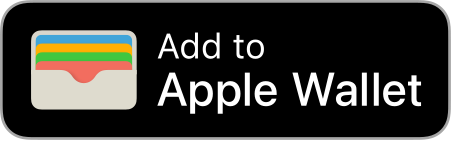
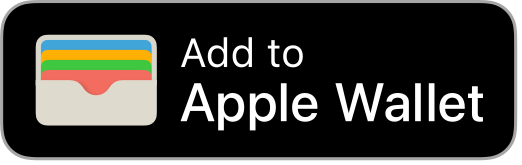
Show the Apple and Google Wallet badges at the same width
Both official badges now share one width, each at its own proportions
(no box, no stretching or cropping): 160px on the ticket page (Google 44
tall, Apple about 51), centred on each other in a row and lined up when
they stack; 174px in the ticket email (Google 174 x 48, Apple 174 x 55),
166px on a phone, in equal half-width cells. The email PNGs are
re-rendered by width. An equal box filled to match was tried and left
the narrower badge's own outline showing inside it, so the owner chose
equal widths (docs/wallet-setup.md).

Claude-Session: https://claude.ai/code/session_01EiyY8SCgCLMsFcWNDso4n4

diff --git a/tests/server/ticket-email.test.ts b/tests/server/ticket-email.test.ts
@@ -574,13 +574,13 @@ describe("wallet buttons (ticketWalletLinks; the outbox passes which wallets are
     expect(walletPassLink(SITE, "ord_abc", "google", 2)).toBe(link("google", 2));
   });
 
-  it("both are the vendors' official badges (hosted PNGs of their SVGs), never text: alt in their words, in their pass links, the same height", () => {
+  it("both are the vendors' official badges (hosted PNGs of their SVGs), never text: alt in their words, in their pass links, the same width", () => {
     const { html } = buildTicketEmail(order, event, SITE, BUILT, BOTH);
     for (const [i, card] of cardsOf(html).entries()) {
       const n = i + 1;
-      for (const [provider, words, file, width] of [
-        ["apple", "Add to Apple Wallet", "apple-wallet-badge", 152],
-        ["google", "Add to Google Wallet", "google-wallet-badge", 174],
+      for (const [provider, words, file, height] of [
+        ["apple", "Add to Apple Wallet", "apple-wallet-badge", 55],
+        ["google", "Add to Google Wallet", "google-wallet-badge", 48],
       ] as const) {
         const anchor = card.match(new RegExp(`<a class="wa" href="${pattern(link(provider, n))}"[^>]*>([\\s\\S]*?)</a>`));
         expect(anchor, `${provider} ${n}`).not.toBeNull();
@@ -590,15 +590,15 @@ describe("wallet buttons (ticketWalletLinks; the outbox passes which wallets are
         expect(inside.replace(/<[^>]+>/g, "").trim()).toBe("");
         expect(inside.match(/<img [^>]*>/g)).toEqual([
           expect.stringContaining(
-            `<img class="wb" src="${SITE}/email/ticket/${file}@2x.png" srcset="${SITE}/email/ticket/${file}@3x.png 3x" width="${width}" height="48" alt="${words}" style="display:block;border:0;width:${width}px;max-width:100%;height:auto;`,
+            `<img class="wb" src="${SITE}/email/ticket/${file}@2x.png" srcset="${SITE}/email/ticket/${file}@3x.png 3x" width="174" height="${height}" alt="${words}" style="display:block;border:0;width:174px;max-width:100%;height:auto;`,
           ),
         ]);
       }
       // No colour behind them (their corners are transparent): plain cells.
       expect(card).not.toMatch(/<td bgcolor="#000000"[^>]*><a class="wa"/);
     }
-    // On a phone both are 46px tall, at their own proportions.
-    expect(html.match(/@media only screen and \(max-width:620px\)\{([\s\S]*?)\n\}/)?.[1]).toContain(".wb{width:auto!important;height:46px!important}");
+    // On a phone both are 166px wide, at their own proportions.
+    expect(html.match(/@media only screen and \(max-width:620px\)\{([\s\S]*?)\n\}/)?.[1]).toContain(".wb{width:166px!important;height:auto!important}");
     expect(visibleText(html)).not.toMatch(/Add to (Apple|Google) Wallet/);
   });
 
@@ -615,19 +615,19 @@ describe("wallet buttons (ticketWalletLinks; the outbox passes which wallets are
     expect(google.html + google.text).not.toContain("Apple Wallet");
   });
 
-  it("the wallet PNGs are the vendors' SVGs rendered at 2x and 3x the 48px shown, at their own proportions, transparent outside", () => {
+  it("the wallet PNGs are the vendors' SVGs rendered at 2x and 3x the 174px width both are shown at, at their own proportions, transparent outside", () => {
     for (const [svg, shown, width, height] of [
       ["public/wallet/badges/US-UK_Add_to_Apple_Wallet_RGB_101421.svg", TICKET_EMAIL_WALLET_BADGES.apple, 110.739, 35.016],
       ["public/wallet/badges/enAU_add_to_google_wallet_add-wallet-badge.svg", TICKET_EMAIL_WALLET_BADGES.google, 199, 55],
     ] as const) {
       expect(readFileSync(path.join(process.cwd(), svg), "utf8")).toContain(`viewBox="0 0 ${width} ${height}"`);
-      expect(shown.height).toBe(48);
+      expect(shown.width).toBe(174);
       // Shown at the artwork's proportions, to within rounding (under half a pixel).
-      expect(Math.abs((shown.height * width) / height - shown.width)).toBeLessThan(0.5);
+      expect(Math.abs((shown.width * height) / width - shown.height)).toBeLessThan(0.5);
       for (const [file, scale] of [[shown.x2, 2], [shown.x3, 3]] as const) {
         const png = readFileSync(path.join(process.cwd(), "public", file));
-        expect(png.readUInt32BE(20), file).toBe(48 * scale);
-        expect(Math.abs(png.readUInt32BE(16) - (48 * scale * width) / height), file).toBeLessThanOrEqual(1);
+        expect(png.readUInt32BE(16), file).toBe(174 * scale);
+        expect(Math.abs(png.readUInt32BE(20) - (174 * scale * height) / width), file).toBeLessThanOrEqual(1);
         // Colour type 6: RGBA, so the corners outside the badge stay transparent.
         expect(png[25], file).toBe(6);
       }

diff --git a/scripts/render-ticket-email-assets.ts b/scripts/render-ticket-email-assets.ts
@@ -12,8 +12,9 @@
  *   public/email/ticket/wordmark.png      the uppercase wordmark, Signal Orange on transparent, 106 x 24 (212 x 48)
  *   public/email/ticket/{apple,google}-wallet-badge@2x.png / @3x.png   the vendors' official "Add to … Wallet"
  *                                         badges, rasterised unmodified from public/wallet/badges/
- *                                         (lib/wallet-badges.ts) at 2x and 3x the 48 px they're shown at
- *                                         (96 / 144 px tall), transparent outside the badge
+ *                                         (lib/wallet-badges.ts) at 2x and 3x the 174 px width both are
+ *                                         shown at (348 / 522 px wide), each at its own proportions,
+ *                                         transparent outside the badge
  *   lib/server/email-ticket-wordmark.ts   the wordmark's bytes as base64 (attached inline, cid:)
  *
  *   node --import tsx scripts/render-ticket-email-assets.ts
@@ -30,7 +31,7 @@
 import { mkdirSync, readFileSync, writeFileSync } from "node:fs";
 import path from "node:path";
 import sharp from "sharp";
-import { WALLET_BADGE_EMAIL_HEIGHT, WALLET_BADGES } from "../lib/wallet-badges";
+import { WALLET_BADGE_EMAIL_WIDTH, WALLET_BADGES } from "../lib/wallet-badges";
 
 const root = process.cwd();
 const OUT = path.join(root, "public/email/ticket");
@@ -92,15 +93,16 @@ async function main() {
   files.push(["wordmark.png", wordmarkPng]);
 
   // The vendors' official wallet badges, rasterised exactly as drawn (no recolouring, cropping or redrawing):
-  // each SVG rendered straight at the density that makes it 96 / 144 px tall (2x / 3x the 48 px shown), at
-  // its own proportions, its transparent corners kept, for email clients that can't show SVG.
+  // each SVG rendered straight at the density that makes it 348 / 522 px wide (2x / 3x the 174 px both are
+  // shown at), at its own proportions (so Apple's comes out taller), its transparent corners kept, for email
+  // clients that can't show SVG.
   for (const [provider, file] of Object.entries(WALLET_BADGES)) {
     const svg = readFileSync(path.join(root, "public", file.src));
     for (const scale of [2, 3]) {
-      const tall = WALLET_BADGE_EMAIL_HEIGHT * scale;
-      const bytes = await sharp(svg, { density: (72 * tall) / file.height }).png({ compressionLevel: 9 }).toBuffer();
+      const wide = WALLET_BADGE_EMAIL_WIDTH * scale;
+      const bytes = await sharp(svg, { density: (72 * wide) / file.width }).png({ compressionLevel: 9 }).toBuffer();
       const { width, height } = await sharp(bytes).metadata();
-      if (height !== tall || Math.abs((width ?? 0) - (tall * file.width) / file.height) > 1) throw new Error(`${file.src} at ${scale}x is ${width} x ${height}`);
+      if (width !== wide || Math.abs((height ?? 0) - (wide * file.height) / file.width) > 1) throw new Error(`${file.src} at ${scale}x is ${width} x ${height}`);
       files.push([`${provider}-wallet-badge@${scale}x.png`, bytes]);
     }
   }

diff --git a/lib/wallet-badges.ts b/lib/wallet-badges.ts
@@ -8,13 +8,22 @@
  * same files (scripts/render-ticket-email-assets.ts,
  * lib/server/email-ticket-layout.ts).
  *
- * Shown as a pair at the same height, Apple's first:
+ * Shown as a pair at the same width, each artwork at its own proportions (so
+ * Apple's is a little taller), Apple's first. Stacked, their edges line up; in
+ * a row, they're centred on each other. Nothing is drawn around or behind
+ * them: an equal box filled to match would leave each artwork's own outline
+ * showing inside it (the owner's call, 22 Nov 2026; docs/wallet-setup.md).
  * - Apple: "Add to Apple Wallet", US/UK English, black. Apple's only badge is
  *   two lines ("Add to / Apple Wallet").
  * - Google: "Add to Google Wallet", Australian English, the two-line
- *   "add-wallet-badge" of Google's pack, chosen to match Apple's at the same
- *   height. Google's one-line button would have type about 40% bigger beside
- *   it, and doesn't fit half a phone-width row.
+ *   "add-wallet-badge" of Google's pack, chosen to match Apple's. Google's
+ *   one-line button would have type about 40% bigger beside it, and doesn't
+ *   fit half a phone-width row.
+ *
+ * On the site both are 160px wide (components/tickets/WalletButtons.tsx):
+ * Google's at 44px tall (199 x 55 scaled: 159.2), the wider of the pair at
+ * that height, so it keeps a 44px touch target; Apple's is then about 51px
+ * tall (110.739 x 35.016 scaled: 50.6).
  *
  * `width` and `height` are each artboard's own size (its SVG width and
  * height), which fixes its proportions.
@@ -36,8 +45,21 @@ export const WALLET_BADGES = {
   google: { src: "/wallet/badges/enAU_add_to_google_wallet_add-wallet-badge.svg", width: 199, height: 55, label: "Add to Google Wallet" },
 } as const satisfies Record<WalletBadgeProvider, WalletBadgeFile>;
 
-/** The height both badges are shown at in the ticket email (the design images measure 47.5px at 600). */
-export const WALLET_BADGE_EMAIL_HEIGHT = 48;
+/**
+ * The width both badges are shown at in the ticket email: Google's at the
+ * design's 48px tall (199 x 55 scaled: 173.7), the wider of the pair at that
+ * height. Apple's is then 55px tall (110.739 x 35.016 scaled: 55.0).
+ */
+export const WALLET_BADGE_EMAIL_WIDTH = 174;
+
+/** The same on a phone (in the email's `.wb` rule): Google's at 46px tall (166.4), so each fits half the row. */
+export const WALLET_BADGE_EMAIL_PHONE_WIDTH = 166;
+
+/** A badge's height at `width`, at its artwork's own proportions, to the nearest pixel. */
+export function walletBadgeHeight(provider: WalletBadgeProvider, width: number): number {
+  const badge = WALLET_BADGES[provider];
+  return Math.round((width * badge.height) / badge.width);
+}
 
 /**
  * Apple asks for this wherever the badge is shown, because the page or email

diff --git a/lib/server/email-ticket-layout.ts b/lib/server/email-ticket-layout.ts
@@ -1,6 +1,7 @@
 import type { InlineImage } from "./email";
 import { WORDMARK_CID } from "./email-layout";
 import { TICKET_EMAIL_WORDMARK } from "./email-ticket-wordmark";
+import { WALLET_BADGE_EMAIL_PHONE_WIDTH, WALLET_BADGE_EMAIL_WIDTH, walletBadgeHeight } from "@/lib/wallet-badges";
 
 /**
  * The ticket email's own look (docs/design/ticket-email.md): white, black
@@ -70,15 +71,25 @@ export const TICKET_EMAIL_ASSETS = {
  * The vendors' official wallet badges as PNGs (email clients can't be relied
  * on for SVG), rasterised unmodified from the committed SVGs
  * (lib/wallet-badges.ts) by scripts/render-ticket-email-assets.ts at 2x and
- * 3x, transparent outside the badge. Both are shown 48px tall (the design
- * images measure 47.5 at 600), at their own proportions: Apple's 152 wide
- * (110.739 x 35.016 scaled: 151.8) and Google's two-line badge 174 wide
- * (199 x 55 scaled: 173.7). On a phone both are 46px tall (`.wb`), so
- * Google's fits half of the row.
+ * 3x, transparent outside the badge. Both are shown at the same width, each
+ * at its own proportions: 174 wide (Google's at the design's 48px tall,
+ * 199 x 55 scaled: 173.7), so Google's is 174 x 48 and Apple's 174 x 55
+ * (110.739 x 35.016 scaled: 55.0). On a phone both are 166 wide (`.wb`;
+ * Google's 46 tall, Apple's 52), so each fits half of the row.
  */
 export const TICKET_EMAIL_WALLET_BADGES = {
-  apple: { x2: "/email/ticket/apple-wallet-badge@2x.png", x3: "/email/ticket/apple-wallet-badge@3x.png", width: 152, height: 48 },
-  google: { x2: "/email/ticket/google-wallet-badge@2x.png", x3: "/email/ticket/google-wallet-badge@3x.png", width: 174, height: 48 },
+  apple: {
+    x2: "/email/ticket/apple-wallet-badge@2x.png",
+    x3: "/email/ticket/apple-wallet-badge@3x.png",
+    width: WALLET_BADGE_EMAIL_WIDTH,
+    height: walletBadgeHeight("apple", WALLET_BADGE_EMAIL_WIDTH),
+  },
+  google: {
+    x2: "/email/ticket/google-wallet-badge@2x.png",
+    x3: "/email/ticket/google-wallet-badge@3x.png",
+    width: WALLET_BADGE_EMAIL_WIDTH,
+    height: walletBadgeHeight("google", WALLET_BADGE_EMAIL_WIDTH),
+  },
 } as const;
 
 /** The site's https origin, or null (a local http dev server gets no web fonts). */
@@ -129,7 +140,7 @@ export const TICKET_PHONE_RULES = `.pg{padding:34px 16px 40px 16px!important}
 .qr{width:231px!important;height:231px!important}
 .ei{max-height:144px!important}
 .sd{display:none!important}
-.wb{width:auto!important;height:46px!important}
+.wb{width:${WALLET_BADGE_EMAIL_PHONE_WIDTH}px!important;height:auto!important}
 .sm{display:block!important;width:72px!important;height:14px!important;max-height:none!important;overflow:visible!important}
 .bt{padding:14px 4px!important}
 .bo{padding:12.5px 4px!important}

diff --git a/e2e/checkout-success-qr.spec.ts b/e2e/checkout-success-qr.spec.ts
@@ -121,3 +121,40 @@ test("a refunded order shows the refund message and no QR or code", async ({ pag
   await expect(page.getByText("7KQM-2HXD")).toHaveCount(0);
   await expect(page.getByText("The Tote, Collingwood")).toHaveCount(0);
 });
+
+// The wallet badges at the same width (owner, 22 Nov 2026; docs/wallet-setup.md, "Official badges"): both 160px
+// wide at their own proportions, Google's 44px tall and Apple's about 51. In a row they're centred on each other;
+// where they wrap (a 320px phone), stacked with their edges lined up. No sideways scrolling either way.
+for (const vp of [
+  { name: "320px phone (stacked)", width: 320, height: 568, row: false },
+  { name: "390px phone (in a row)", width: 390, height: 844, row: true },
+  { name: "desktop (in a row)", width: 1440, height: 900, row: true },
+]) {
+  test(`at ${vp.name}, the Apple and Google Wallet badges are the same width`, async ({ page }) => {
+    await page.setViewportSize({ width: vp.width, height: vp.height });
+    await stubApi(page, { ...ORDER, tickets: [ORDER.tickets[0]], wallet: { apple: true, google: true } });
+    await page.goto("/checkout/success?session_id=ord_e2e");
+    const apple = page.getByRole("link", { name: "Add to Apple Wallet" }).getByRole("img");
+    const google = page.getByRole("link", { name: "Add to Google Wallet" }).getByRole("img");
+    await apple.scrollIntoViewIfNeeded();
+    // Wait for each SVG to load, so its height is the artwork's and not the attributes' placeholder.
+    for (const img of [apple, google]) await expect.poll(() => img.evaluate((el: HTMLImageElement) => el.complete && el.naturalWidth > 0)).toBe(true);
+    const a = await apple.boundingBox();
+    const g = await google.boundingBox();
+    if (!a || !g) throw new Error("a wallet badge isn't laid out");
+    expect(a.width).toBeCloseTo(160, 1);
+    expect(g.width).toBeCloseTo(160, 1);
+    expect(g.height).toBeGreaterThanOrEqual(44);
+    expect(g.height).toBeCloseTo((160 * 55) / 199, 1);
+    expect(a.height).toBeCloseTo((160 * 35.016) / 110.739, 1);
+    if (vp.row) {
+      expect(g.x).toBeGreaterThan(a.x + a.width);
+      expect(g.y + g.height / 2).toBeCloseTo(a.y + a.height / 2, 0);
+    } else {
+      expect(g.x).toBeCloseTo(a.x, 1);
+      expect(g.y).toBeGreaterThan(a.y + a.height);
+    }
+    const overflow = await page.evaluate(() => document.documentElement.scrollWidth - document.documentElement.clientWidth);
+    expect(overflow).toBeLessThanOrEqual(0);
+  });
+}

diff --git a/tests/WalletButtons.test.tsx b/tests/WalletButtons.test.tsx
@@ -59,10 +59,10 @@ describe("WalletButtons", () => {
     }
   });
 
-  it("targets are 44px tall (h-11), never a ticket code in the URL, and the id is encoded", () => {
+  it("targets are 160px wide (w-40) and at least 44px tall, never a ticket code in the URL, and the id is encoded", () => {
     render(<WalletButtons sessionId={"ord_x/../y"} wallet={{ google: true, apple: true }} ticketNumber={1} ticketCount={1} />);
     for (const link of screen.getAllByRole("link")) {
-      expect(link.querySelector("img")?.getAttribute("class")).toBe("block h-11 w-auto");
+      expect(link.querySelector("img")?.getAttribute("class")).toBe("block h-auto w-40");
       expect(link.getAttribute("href")).toContain("ord_x%2F..%2Fy");
     }
   });
@@ -81,11 +81,14 @@ describe("WalletButtons", () => {
       expect(images).toHaveLength(1);
       expect(images[0].getAttribute("src")).toBe(src);
       expect(images[0].getAttribute("alt")).toBe(words);
-      // Its own proportions: a set height and an automatic width; nothing that crops, dims or recolours it.
+      // Its own proportions: a set width and an automatic height; nothing that crops, dims or recolours it.
       expect([images[0].getAttribute("width"), images[0].getAttribute("height")]).toEqual([width, height]);
     }
-    // The pair is the same height.
-    expect(new Set(screen.getAllByRole("img").map((img) => img.getAttribute("class")))).toEqual(new Set(["block h-11 w-auto"]));
+    // The pair is the same width (160px), each as tall as its proportions make it: Google's 44px, Apple's about 51.
+    expect(new Set(screen.getAllByRole("img").map((img) => img.getAttribute("class")))).toEqual(new Set(["block h-auto w-40"]));
+    const tallAt160 = (badge: { width: number; height: number }) => (160 * badge.height) / badge.width;
+    expect(tallAt160(WALLET_BADGES.google)).toBeGreaterThanOrEqual(44);
+    expect(tallAt160(WALLET_BADGES.apple)).toBeCloseTo(50.6, 1);
   });
 
   it("the committed artwork is the vendors' download: Apple's byte for byte, Google's with only its corners changed", () => {

diff --git a/components/tickets/WalletButtons.tsx b/components/tickets/WalletButtons.tsx
@@ -22,9 +22,10 @@ interface WalletButtonsProps {
  * which Safari offers to add to Wallet.
  *
  * Each is the vendor's official badge (lib/wallet-badges.ts; Google's with rounded-rectangle corners):
- * Apple's then Google's, both 44px tall at their own proportions (about 139
- * and 159px wide), 8px apart (Apple asks for 0.1x the height around its
- * badge: 4.4px). No hover effects, no dimming, and the same files in both
+ * Apple's then Google's, both 160px wide at their own proportions (Google's
+ * 44px tall, Apple's about 51), centred on each other in a row and lined up
+ * when they wrap, 8px apart (Apple asks for 0.1x the height around its
+ * badge: about 5px). No hover effects, no dimming, and the same files in both
  * themes. They always say "Add": the site can't tell whether a pass was
  * saved, so Google's "View in Google Wallet" isn't used. Each image's alt is
  * the vendor's wording. With several tickets, each link's name says which
@@ -46,8 +47,8 @@ export default function WalletButtons({ sessionId, wallet, ticketNumber, ticketC
             rel="nofollow"
             className={`inline-flex ${provider === "apple" ? "rounded-control" : "rounded-full"}`}
           >
-            {/* eslint-disable-next-line @next/next/no-img-element -- the vendor's SVG, unmodified at its own proportions; next/image would need SVG optimisation off and fixed dimensions */}
-            <img src={badge.src} width={badge.width} height={badge.height} alt={badge.label} draggable={false} className="block h-11 w-auto" />
+            {/* eslint-disable-next-line @next/next/no-img-element -- the vendor's SVG, unmodified at its own proportions (its artboard's width and height; shown 160px wide, height to match); next/image would need SVG optimisation off and fixed dimensions */}
+            <img src={badge.src} width={badge.width} height={badge.height} alt={badge.label} draggable={false} className="block h-auto w-40" />
           </a>
         );
       })}

diff --git a/lib/server/ticket-email.ts b/lib/server/ticket-email.ts
@@ -630,8 +630,9 @@ export function ticketCard(card: CardInput): string {
 /**
  * A ticket's wallet badges, under its card: the vendors' official artwork
  * (TICKET_EMAIL_WALLET_BADGES, hosted PNGs of their SVGs), Apple's then
- * Google's, each 48px tall at its own proportions (46 on a phone), centred
- * with a 12px gap (two equal halves, 8px apart, on a phone). No colour behind
+ * Google's, both 174px wide at their own proportions (Google's 48 tall,
+ * Apple's 55; both 166 wide on a phone), centred on each other with a 12px
+ * gap (two equal halves, 8px apart, on a phone). No colour behind
  * them (their corners are transparent), nothing over them, no effects. The
  * alt text is the vendor's wording, shown in black with images off. Their
  * links are ticketWalletLinks'. With `deviceNote` (the last card's row) and

diff --git a/docs/design/ticket-email.md b/docs/design/ticket-email.md
@@ -125,7 +125,7 @@ Everything else is as specified. The QR area is taller than drawn by design (P2)
 | D4 | The fourth share chip | "Copy link" | **"Share page"**, in the same chip style and position, linking to the event's public page, where the share and copy controls work | Owner, 18 Nov (approved). Email can't run the JavaScript that a copy button needs. |
 | D5 | Mobile footer lines | "You're getting this email…" is **clipped** at both edges in `155.webp` | Wraps inside the column | A mock artefact: text must never be cut off. |
 | D6 | Mobile ticket type | `155.webp` shows "2nd release" | **"Second release"**: the ticket type's name as entered, unabbreviated, at every width | Owner, 18 Nov. The desktop image already shows it. |
-| D7 | Wallet buttons | Black one-line buttons with a generic wallet glyph, 207 / 215 × 48 | **The official badges** (20 Nov), both two-line ("Add to / Apple Wallet", "Add to / Google Wallet"), 48px tall at their own proportions: Apple 152 × 48, Google 174 × 48, 12px apart; 46px tall in a phone's halves. Hosted PNGs of the vendors' SVGs (not inline `cid:`), alt in the vendors' words, nothing behind them; with images off, the alt text shows in black. Apple's device note follows the last card's badges. | Apple's only badge is two-line, and Google's two-line badge matches it at the same height (`docs/wallet-setup.md`, "Official badges"). Apple's rules ask for the device note. The glyph was a placeholder. |
+| D7 | Wallet buttons | Black one-line buttons with a generic wallet glyph, 207 / 215 × 48 | **The official badges** (20 Nov), both two-line ("Add to / Apple Wallet", "Add to / Google Wallet"), the same width at their own proportions (owner, 22 Nov): Apple 174 × 55, Google 174 × 48, 12px apart; 166px wide in a phone's halves. Hosted PNGs of the vendors' SVGs (not inline `cid:`), alt in the vendors' words, nothing behind them; with images off, the alt text shows in black. Apple's device note follows the last card's badges. | Apple's only badge is two-line, and Google's two-line badge matches it (`docs/wallet-setup.md`, "Official badges"). Apple's rules ask for the device note. The glyph was a placeholder. |
 | D8 | Very large orders | – | One full card (the first ticket's) and a row for each other ticket; past a 90KB HTML budget the first rows are kept and the rest are one line pointing at the ticket page | Gmail clips HTML over 102KB. The largest order checkout allows is 20 types × 20 people = 400 tickets. Only the first code is in the email; the ticket page holds every code and QR code. |
 | P1–P3 | (below) | | **Built** | Owner, 18 Nov: approved all three. |
 
@@ -336,9 +336,10 @@ Add both as functions beside `formatTicketTime`. Today's strings change only in 
 - Apple: the "Add to Apple Wallet" badge, black, en-AU/en-GB.
 - Google: the "Add to Google Wallet" badge, black/dark, en.
 
-**Size.** Each is a 2× PNG shown **48px tall**, with its width set by its own aspect ratio (not a fixed 207 / 215).
-- Desktop: the two badges are centred, with a 12px gap.
-- Mobile: each sits centred in half of the row, with an 8px gap, keeping the artwork's ratio (height ≤ 48) rather
+**Size.** Each is a 2× PNG, both shown **174px wide** (Google's 48px tall, the images' 47.5; owner, 22 Nov), each
+with its height set by its own aspect ratio (Apple's 55), not a fixed 207 / 215 × 48.
+- Desktop: the two badges are centred on each other, with a 12px gap.
+- Mobile: both 166px wide, each centred in half of the row, with an 8px gap, keeping the artwork's ratio rather
   than stretching it.
 
 **Usage rules (constraints):**

diff --git a/docs/wallet-setup.md b/docs/wallet-setup.md
@@ -214,18 +214,28 @@ SHA-256 (`tests/WalletButtons.test.tsx`).
 
 **Which variant, and how they're shown:**
 - **Two-line badges for both.** Apple's badge only comes in two lines.
-  Google's matching two-line badge pairs with it at the same height, and
-  fits half a phone-width row. Google's one-line button, which the owner's
-  design images show, would have type about 40% bigger beside Apple's at
-  the same height, and at half a 375px row it would be 29px tall.
-- **Same height, own proportions.** On the site, 44px tall (Apple about 139
-  wide, Google about 159), 8px apart. In the email, 48px tall (the design
-  images measure 47.5): Apple 152 × 48, Google 174 × 48, 12px apart. On a
-  phone, both are 46px tall, 8px apart.
-- **Clear space.** Apple asks for 0.1 × the badge's height around it (4.4px
-  on the site, 4.8 in the email), which the gaps cover. Google's own
-  minimum-size and clear-space numbers weren't readable from the build
-  environment. Check them on Google's guidelines page.
+  Google's matching two-line badge pairs with it, and fits half a
+  phone-width row. Google's one-line button, which the owner's design
+  images show, would have type about 40% bigger beside Apple's at the same
+  height, and at half a 375px row it would be 29px tall.
+- **Same width, own proportions** (the owner's call, 22 Nov 2026). Shown
+  at the same size: each artwork at its own proportions at one shared
+  width, so Apple's (the narrower shape) is a little taller. Stacked, their
+  edges line up; in a row they're centred on each other. On the site, 160px
+  wide (Google 44px tall, its touch target; Apple about 51), 8px apart. In
+  the email, 174px wide (Google 174 × 48, the design images' 47.5px height;
+  Apple 174 × 55), 12px apart; on a phone, 166 wide (Google 46 tall, Apple
+  52), 8px apart, each centred in half the row.
+  Both at one width *and* one height isn't possible without changing the
+  artwork: the two have different proportions (Apple 3.16:1, Google
+  3.62:1), and each draws its own outline all the way round, so an equal
+  box filled to match (badge colour, border and corners) leaves the
+  smaller one's outline showing inside it as a second edge. Never stretch,
+  crop or cover the outline to get there.
+- **Clear space.** Apple asks for 0.1 × the badge's height around it (5.1px
+  on the site, 5.5 in the email, 5.2 on a phone), which the gaps cover.
+  Google's own minimum-size and clear-space numbers weren't readable from
+  the build environment. Check them on Google's guidelines page.
 - **No changes.** No colour behind them (their corners are transparent), no
   hover or pressed effects, no dimming.
 - **Light theme.** The black badges on white, as both vendors ask.
